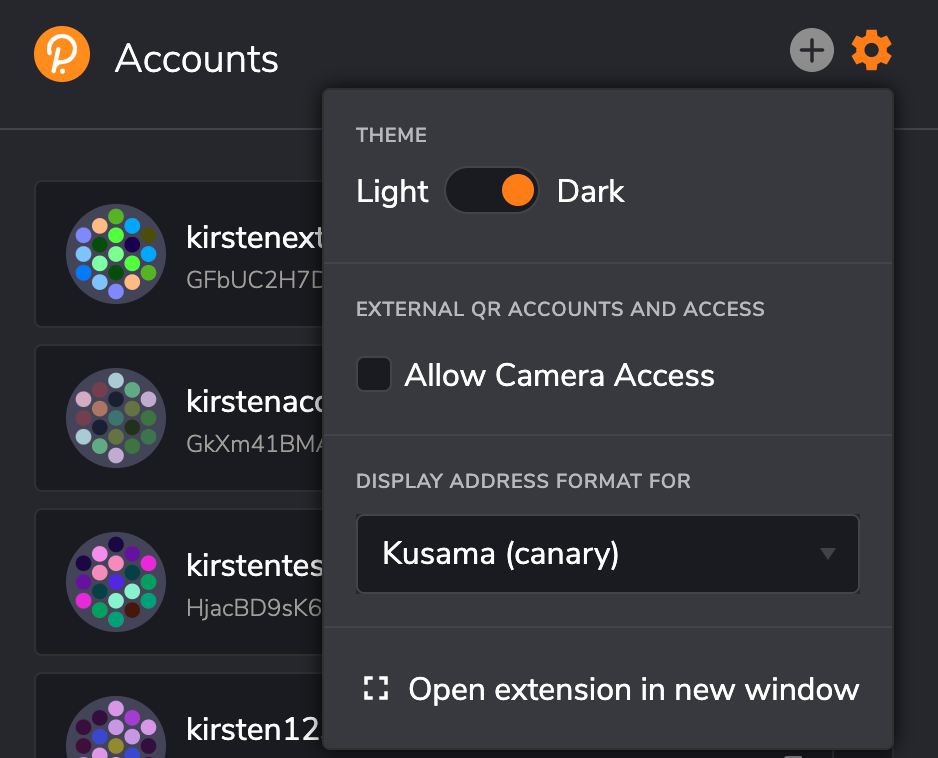
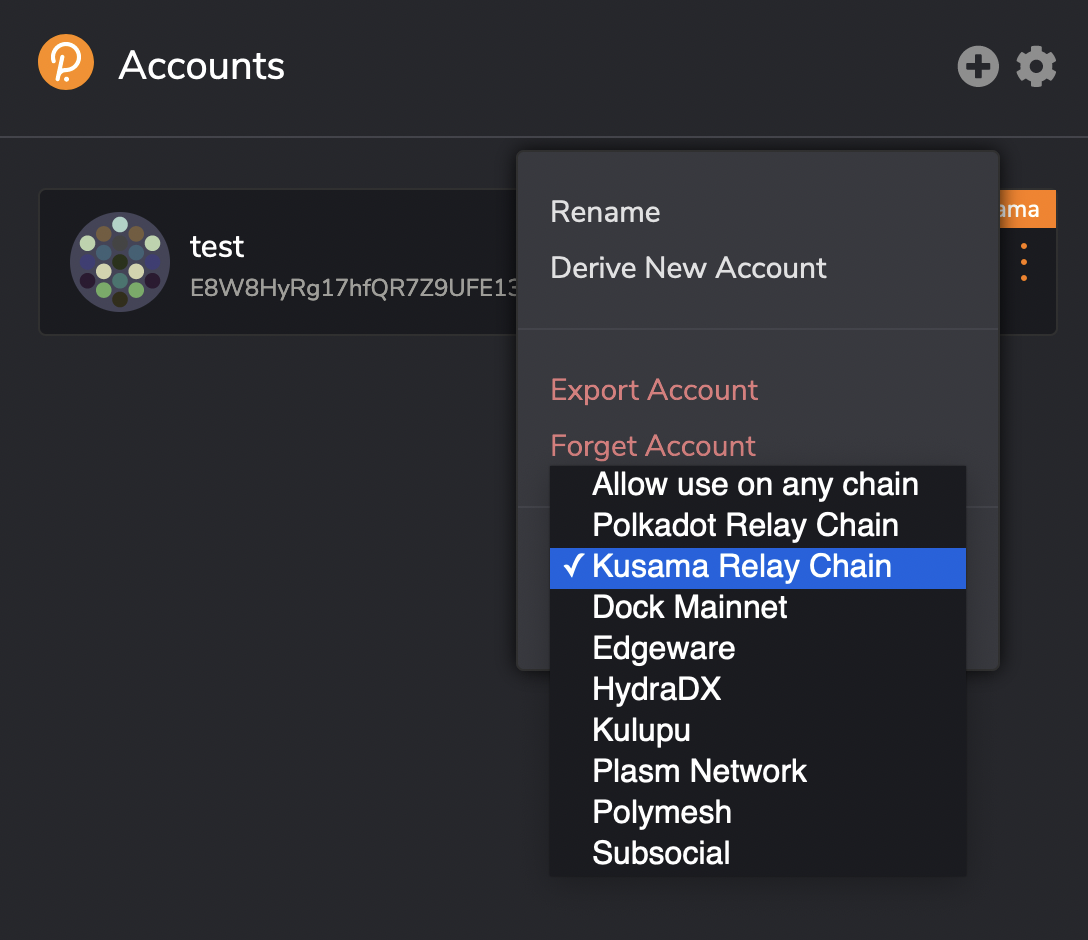
closes #1927; resolves #2286

diff --git a/website/translated_docs/ar/kusama-claims.md b/website/translated_docs/ar/kusama-claims.md
@@ -16,7 +16,7 @@ For most users, we recommend using the [Polkadot{.js} browser extension](https:/
 
 In terms of hardware wallet support, you can use the [Kusama Ledger application](kusama-ledger), or [Parity Signer](https://wiki.polkadot.network/docs/en/learn-account-generation#parity-signer).
 
-Another option you may consider using is the Subkey command line utility, which will allow you to take extra steps to protect the security of your key.
+Another option you may consider using is the Subkey command-line utility, which will allow you to take extra steps to protect the security of your key.
 
 There are a variety of other wallets that you can use; see the [Polkadot Wiki Wallets page](https://wiki.polkadot.network/docs/en/build-wallets). Many of these wallets support generating Kusama accounts as well.
 
@@ -27,7 +27,7 @@ Please follow the instructions for [installing the Kusama Ledger application](ku
 ### Using Polkadot{.js} extension (Chrome/Brave or Firefox)
 
 1. Install the Polkadot{.js} extension from the [Chrome store](https://chrome.google.com/webstore/detail/polkadot%7Bjs%7D-extension/mopnmbcafieddcagagdcbnhejhlodfdd?hl=en) or [Firefox store](https://addons.mozilla.org/en-US/firefox/addon/polkadot-js-extension/).
-2. Click on the settings button to change the network to "Kusama (canary)". <img src="/img/kusama/kusama_polkadotjs_add_account-1.png" width=50% style="margin-left: 70px;" />
+2. Click on the settings button to change the network to "Kusama Relay Chain". <img src="/img/kusama/kusama_polkadotjs_add_account-1.png" width=50% style="margin-left: 70px;" />
 3. Create a new account by clicking on "Create new account (root or derived)". <img src="/img/kusama/kusama_polkadotjs_create.png" width=50% style="margin-left: 70px;" />
 4. Uncheck the option to create an account dervied from another seed. <img src="/img/kusama/kusama_polkadotjs_uncheck.png" width=50% style="margin-left: 70px;" />
 5. Copy the seed phrase and store it somewhere safe. Don't share the seed phrase with anyone, you can use it to access your account if you forget your password or want to import your account again. <img src="/img/kusama/kusama_polkadotjs_mnemonicseed.jpg" width=50% style="margin-left: 70px;" />
@@ -66,7 +66,7 @@ Alternatively, you can build Subkey from the source code.
 
 You can use Subkey on a computer that is not connected to the internet for added security.
 
-The command `subkey --network kusama generate` will generate a new key-pair. If you want to be more secure, use 24 words, `subkey --network kusama generate --words 24`.
+The command `subkey --network kusama generate` will generate a new key pair. If you want to be more secure, use 24 words, `subkey --network kusama generate --words 24`.
 
 ```
 $ subkey --network kusama generate
@@ -108,7 +108,7 @@ See the [Subkey documentation](https://substrate.dev/docs/en/knowledgebase/integ
 
 ### Using Polkawallet
 
-1. Install [Polkawallet](https://polkawallet.io). Click "Download" and select the link corresponding to the platform you are using. On Android you may need to allow installing apps from external sources. On iOS, you may need to "trust" Polkawallet in the "General > Profiles & Device Management > Enterprise App" section before running the app.
+1. Install [Polkawallet](https://polkawallet.io). Click "Download" and select the link corresponding to the platform you are using. On Android, you may need to allow installing apps from external sources. On iOS, you may need to "trust" Polkawallet in the "General > Profiles & Device Management > Enterprise App" section before running the app.
 
 2. Once the app is open, copy the seed phrase and store it in a safe place. Don't share the seed phrase with anyone, you can use it to access your account if you forget your password or otherwise lose your keystore.
 
@@ -118,7 +118,7 @@ See the [Subkey documentation](https://substrate.dev/docs/en/knowledgebase/integ
 
 4. You will be asked to confirm your seed phrase - this is to make sure you have copied it somewhere safe.
 
-5. Click on the pink QR Code symbol and select "Copy address" to copy your address to clipboard.
+5. Click on the pink QR Code symbol and select "Copy address" to copy your address to the clipboard.
 
 <img src="/img/kusama/polkawallet-accounts-page.jpg" width=50% />
 <img src="/img/kusama/polkawallet-copy-address.jpg" width=50% />
@@ -163,7 +163,7 @@ Once you've downloaded MyCrypto and have it running locally (we recommend an air
 
 ![Claim Step 1](assets/kusama/claim/claim-1.png)
 
-The hex encoded string that follows the sentence: "Pay KSM to the Kusama account:" is the hex-encoded public key of your Kusama account, minus the `0x` prefix. To verify that the public key is correct you can use the Subkey tool to inspect your address.
+The hex-encoded string that follows the sentence: "Pay KSM to the Kusama account:" is the hex-encoded public key of your Kusama account, minus the `0x` prefix. To verify that the public key is correct you can use the Subkey tool to inspect your address.
 
 The next step is to go to the MyCrypto application and click on "Sign & Verify Message" tab. This will prompt you to select a method for unlocking your wallet. After unlocking your wallet, you will copy and paste the outputted sentence into the input box.
 
@@ -177,7 +177,7 @@ Copy and paste the JSON output of the signed message from MyCrypto into the inpu
 
 ![Claim Step 3](assets/kusama/claim/claim-3.png)
 
-At this point you will see a success message if everything went right and your KSM will now be in the account that you claimed to. Congratulations you can now participate in aspects of the Kusama network such as [governance](learn-governance) and [staking](learn-staking). During the soft launch period balance transfers will not be enabled.
+At this point, you will see a success message if everything went right and your KSM will now be in the account that you claimed to. Congratulations you can now participate in aspects of the Kusama network such as [governance](learn-governance) and [staking](learn-staking). During the soft launch, period balance transfers will not be enabled.
 
 ![Claim Step 4](assets/kusama/claim/claim-4.png)]
 
@@ -187,8 +187,8 @@ After you make an on-chain claim for KSM, your balance should be updated on Polk
 
 Having trouble? Send an email to [support@polkadot.network](mailto:support@polkadot.network).
 
-### Third Party Claims Processes
+### Third-Party Claims Processes
 
 **We do not recommend using a third-party app or process to perform your claim or acquire KSM.**
 
-Claiming using a third-party process can lead to the loss of your allocation, therefore we cannot recommend using any third party apps to do so. Manually specifying your transaction data, as specified in our claims process, is the only way to be certain you will receive your allocation.
+Claiming using a third-party process can lead to the loss of your allocation, therefore we cannot recommend using any third-party apps to do so. Manually specifying your transaction data, as specified in our claims process, is the only way to be certain you will receive your allocation.
